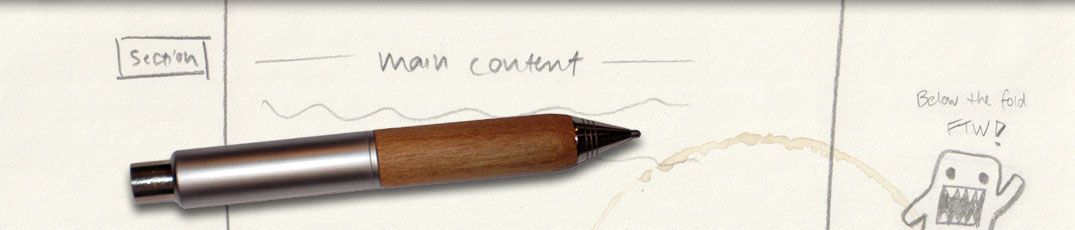
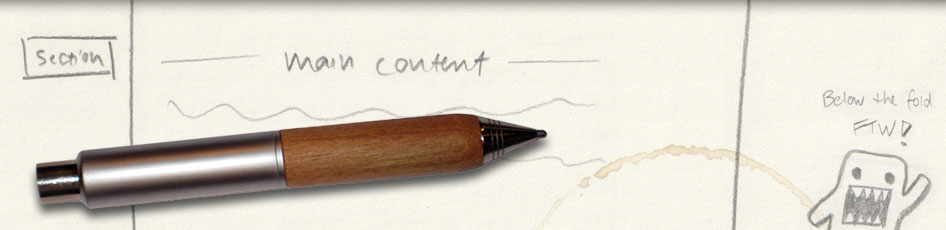
footer tweak

diff --git a/templates/index.html b/templates/index.html
@@ -81,7 +81,7 @@
 
         <h2>Colophon</h2>
 
-        <p>For the geeky-minded, here are some of the companies, tools, and projects that help to make this site possible:</p>
+        <p>For the geeky-minded, here are some of the companies, projects, and tools that deserve a shout-out for this site:</p>
         
         <ul>
           <li><a href="http://staceyapp.com">Stacey</a> - simple text file-based (no database) CMS system for portfolios</li>

diff --git a/public/docs/css/screen.css b/public/docs/css/screen.css
@@ -268,7 +268,7 @@ footer .sketch {
   width: 1075px;
   height: 230px;
   margin: 0 auto;    
-  background: transparent url(/images/bg/sketch.jpg) top center no-repeat;
+  background: transparent url(/images/bg/sketch.jpg) 100px 0 no-repeat;
 }
 
 /*-  misc
